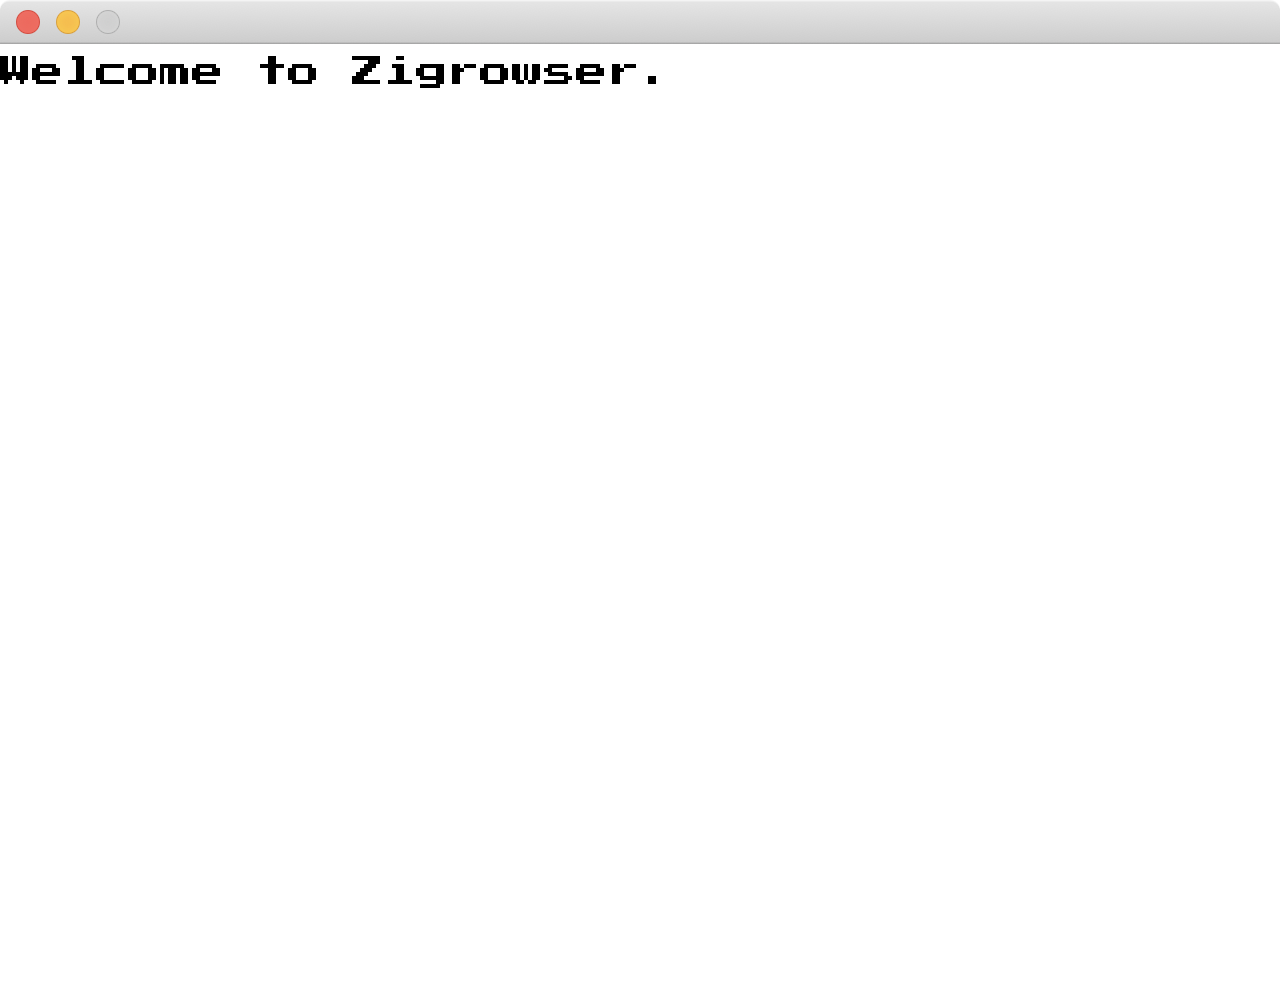
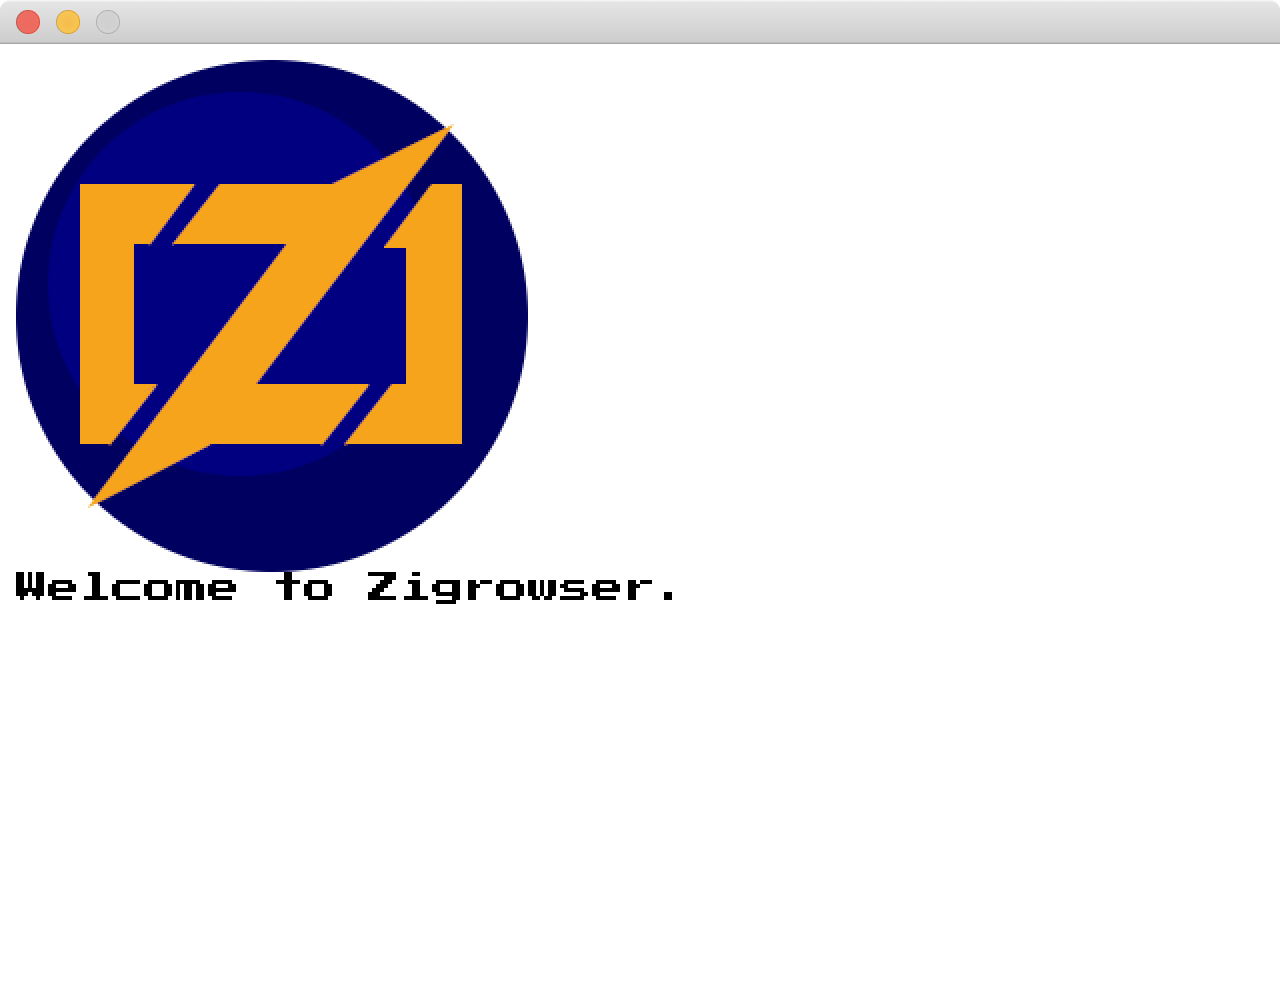
Does a lot more a lot better. Still memory leaks...

Changed region(s): [[0.0, 0.0618, 0.5, 0.6175]]

diff --git a/README.md b/README.md
@@ -23,3 +23,32 @@ To get the PressStart2P font as a BDF I used the following command:
 ```sh
 otf2bdf -r 96 -p 12 src/PressStart2P-Regular.ttf > src/PressStart2P-16.bdf
 ```
+
+I then manually changed the font bounding box's height to 16 like this:
+
+```diff
+--- a/src/PressStart2P-16.bdf
++++ b/src/PressStart2P-16.bdf
+@@ -4,7 +4,7 @@ COMMENT Converted from OpenType font "PressStart2P-Regular.ttf" by "otf2bdf 3.0"
+ COMMENT
+ FONT -FreeType-Press Start 2P-Medium-R-Normal--16-120-96-96-P-134-ISO10646-1
+ SIZE 12 96 96
+-FONTBOUNDINGBOX 28 22 -12 -6
++FONTBOUNDINGBOX 28 16 -12 -6
+ STARTPROPERTIES 19
+ FOUNDRY "FreeType"
+ FAMILY_NAME "Press Start 2P"
+```
+
+## TODO ##
+
+* Parse attributes and store the style information somewhere
+* Parse the `<style>` block in the header of the welcome page:
+  * `background-color: #131315;`
+  * `color: white;`
+  * `font-family`, `font-size`, and the `@font-face` loading of the font I currently get for free because I
+    use the given values as browser defaults, which I will leave alone for now
+* Use style info from `<body>` for `margin`
+* Use style info from `<div>` for `padding`, `margin`, `background-color`, `border`, and `text-align`
+* Use style info from `<img>` for `width` and `margin-bottom`
+* Fix memory leaks
